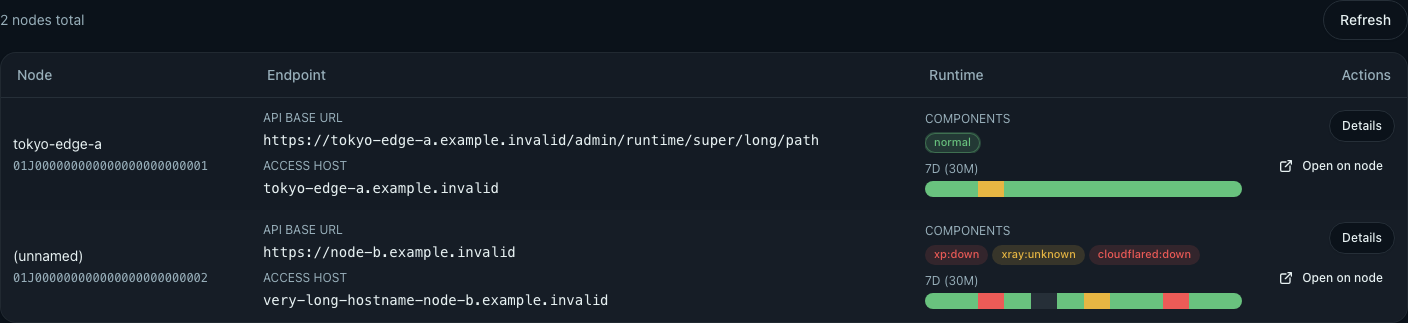
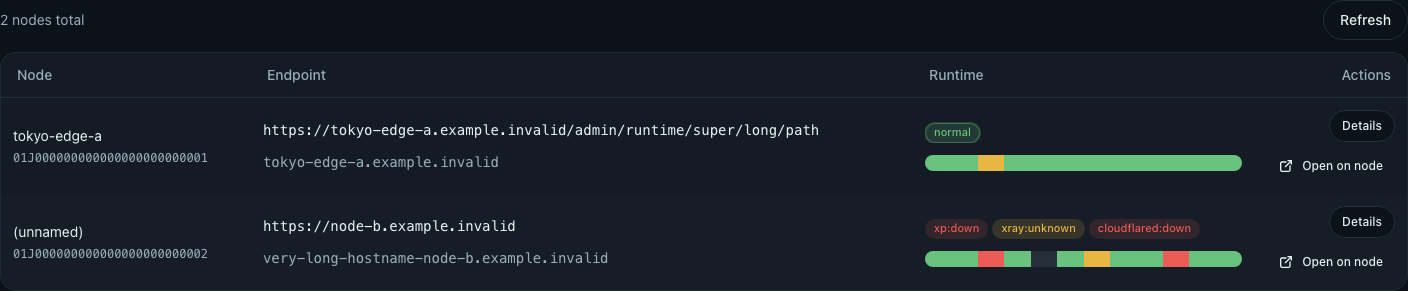
fix: remove inline field labels from node rows

diff --git a/web/src/components/NodeInventoryList.tsx b/web/src/components/NodeInventoryList.tsx
@@ -479,47 +479,27 @@ export function NodeInventoryList({
 										</div>
 									</td>
 									<td>
-										<div className="space-y-2">
-											<div className="space-y-1">
-												<p className="text-xs uppercase text-muted-foreground">
-													API base URL
-												</p>
-												<p className="break-all font-mono whitespace-normal">
-													{node.api_base_url}
-												</p>
-											</div>
-											<div className="space-y-1">
-												<p className="text-xs uppercase text-muted-foreground">
-													Access host
-												</p>
-												<p className="break-all font-mono whitespace-normal">
-													{node.access_host}
-												</p>
-											</div>
+										<div className="space-y-3">
+											<p className="break-all font-mono whitespace-normal">
+												{node.api_base_url}
+											</p>
+											<p className="break-all font-mono whitespace-normal text-muted-foreground">
+												{node.access_host}
+											</p>
 										</div>
 									</td>
 									<td>
-										<div className="space-y-2">
-											<div className="space-y-1">
-												<p className="text-xs uppercase text-muted-foreground">
-													Components
-												</p>
-												<div className="max-w-full truncate whitespace-nowrap">
-													<ProblematicComponentsField
-														problematic={node.components.filter(
-															(component) =>
-																component.status === "down" ||
-																component.status === "unknown",
-														)}
-													/>
-												</div>
+										<div className="space-y-3">
+											<div className="max-w-full truncate whitespace-nowrap">
+												<ProblematicComponentsField
+													problematic={node.components.filter(
+														(component) =>
+															component.status === "down" ||
+															component.status === "unknown",
+													)}
+												/>
 											</div>
-											<div className="space-y-1">
-												<p className="text-xs uppercase text-muted-foreground">
-													7d (30m)
-												</p>
-												{renderHistorySlots(node)}
-											</div>
+											{renderHistorySlots(node)}
 										</div>
 									</td>
 									<td className="align-top">

diff --git a/web/src/components/NodeInventoryList.test.tsx b/web/src/components/NodeInventoryList.test.tsx
@@ -144,7 +144,10 @@ describe("<NodeInventoryList />", () => {
 			"https://node-2.example.com/nodes?view=table&login_token=xp_admin_token#history",
 		]);
 		expect(screen.getAllByText("(unnamed)").length).toBeGreaterThan(0);
-		expect(screen.getAllByText("API base URL").length).toBeGreaterThan(0);
+		expect(screen.queryByText("API base URL")).toBeNull();
+		expect(screen.queryByText("Access host")).toBeNull();
+		expect(screen.queryByText("Components")).toBeNull();
+		expect(screen.queryByText("7d (30m)")).toBeNull();
 	});
 
 	it("shows partial runtime warning", () => {